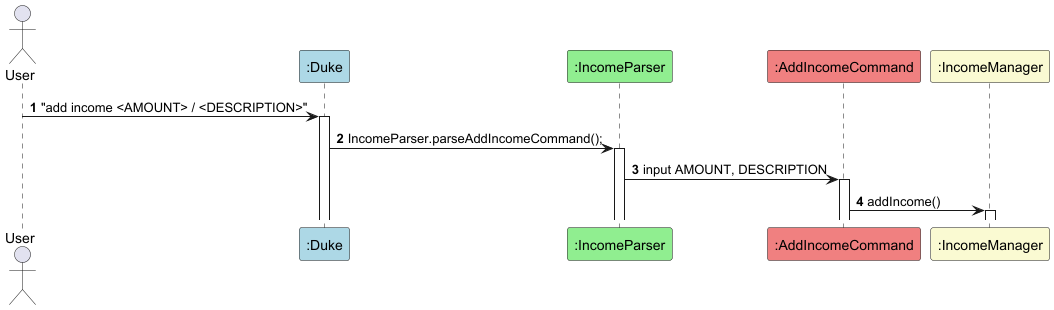
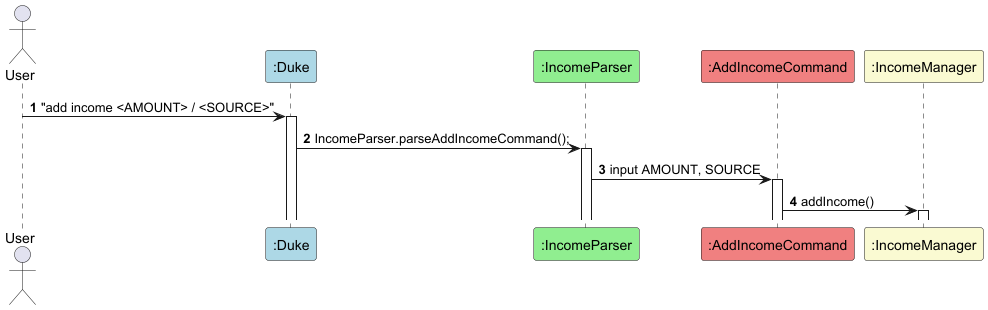
Edited UML diagrams and edited minor changes to docs

diff --git a/src/main/java/commands/IncomeCommand.java b/src/main/java/commands/IncomeCommand.java
@@ -10,13 +10,19 @@ import income.IncomeManager;
 public abstract class IncomeCommand {
 
     /**
-     * Executes the command with the given income manager and UI.
+     * Executes the income-related command.
      *
-     * @param incomeList The manager handling income data.
-     * @param ui The UI handler for displaying messages.
-     * @throws BudgetTrackerException If an error occurs during execution.
+     * @param incomeList The {@link IncomeManager} instance managing income data.
+     * @param ui The {@link Ui} instance responsible for displaying messages to the user.
+     * @throws BudgetTrackerException If an error occurs during command execution.
      */
     public abstract void incomeExecute(IncomeManager incomeList, Ui ui) throws BudgetTrackerException;
+
+    /**
+     * Checks if the command should terminate the program.
+     *
+     * @return {@code true} if the command signals an exit, otherwise {@code false}.
+     */
     public abstract boolean isExit();
 }
 

diff --git a/src/main/java/commands/AddIncomeCommand.java b/src/main/java/commands/AddIncomeCommand.java
@@ -46,7 +46,7 @@ public class AddIncomeCommand extends IncomeCommand {
     }
 
     static {
-        configureLogger();  // Configure the logger when the class is loaded
+        configureLogger();
     }
 
     /**

diff --git a/src/main/java/commands/ListIncomeCommand.java b/src/main/java/commands/ListIncomeCommand.java
@@ -34,7 +34,7 @@ public class ListIncomeCommand {
     }
 
     static {
-        configureLogger();  // Configure the logger when the class is loaded
+        configureLogger();
     }
 
     /**

diff --git a/docs/README.md b/docs/README.md
@@ -237,7 +237,7 @@ Common Cents is a personal finance management application that helps you track y
 
 ### Parameter Conventions
 - `<AMOUNT>`: A positive decimal number (e.g., 100, 50.50)
-- `<SOURCE>`: Text describing the source of expense
+- `<SOURCE>`: Text describing the source of income
 - `<CATEGORY>`: Single letter code for expense categories (F, T, B, O)
 - `<INDEX>`: Integer representing the position in a list (starting from 1)
 - `<DESCRIPTION>`: Text describing an expense/savings goal

diff --git a/docs/UserGuide.md b/docs/UserGuide.md
@@ -23,10 +23,10 @@ Common Cents offers several features to help you manage your finances effectivel
 
 Adds a new income entry to your financial record.
 
-Format: `add income <AMOUNT> / <DESCRIPTION>`
+Format: `add income <AMOUNT> / <SOURCE>`
 
 * `<AMOUNT>` must be a positive number.
-* `<DESCRIPTION>` is a description of where the income came from.
+* `<SOURCE>` is a description of where the income came from.
 
 Example of usage:
 
